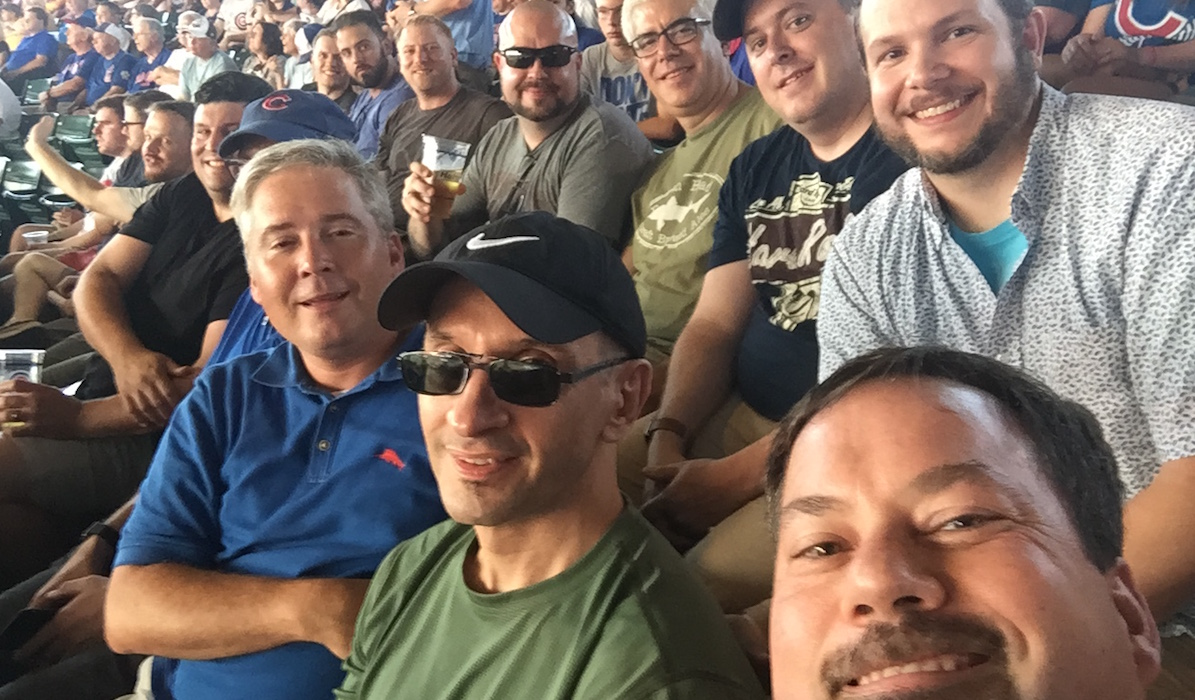
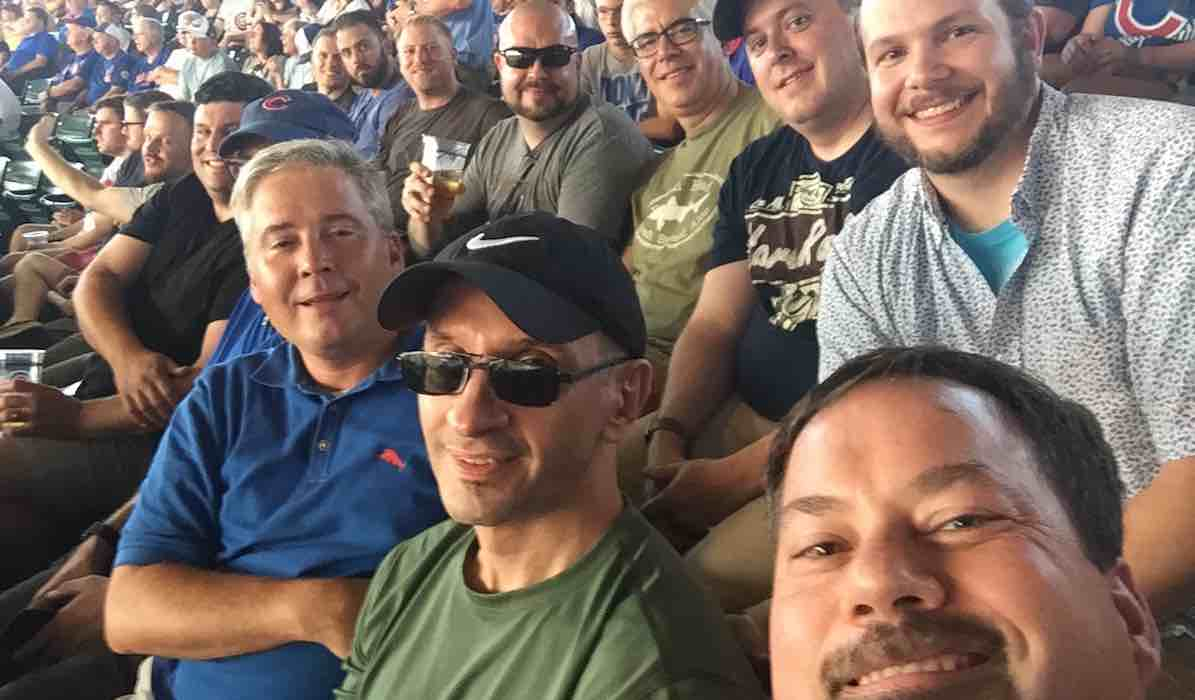
Slide show image size change.

Changed region(s): [[0.6812, 0.24, 0.7121, 0.27], [0.2167, 0.45, 0.2477, 0.48], [0.031, 0.03, 0.0619, 0.06]]

diff --git a/app/index.html b/app/index.html
@@ -105,7 +105,7 @@
             </div>
         </div>
         <div class="item">
-            <img src="images/slideshow/denvertable1.png" width="1200" height="700">
+            <img src="images/slideshow/denvertable1.jpg" width="1200" height="700">
             <div class="carousel-caption">
                 <h3>Solving problems</h3>
                 <p>Best answers come from dialog.</p>
